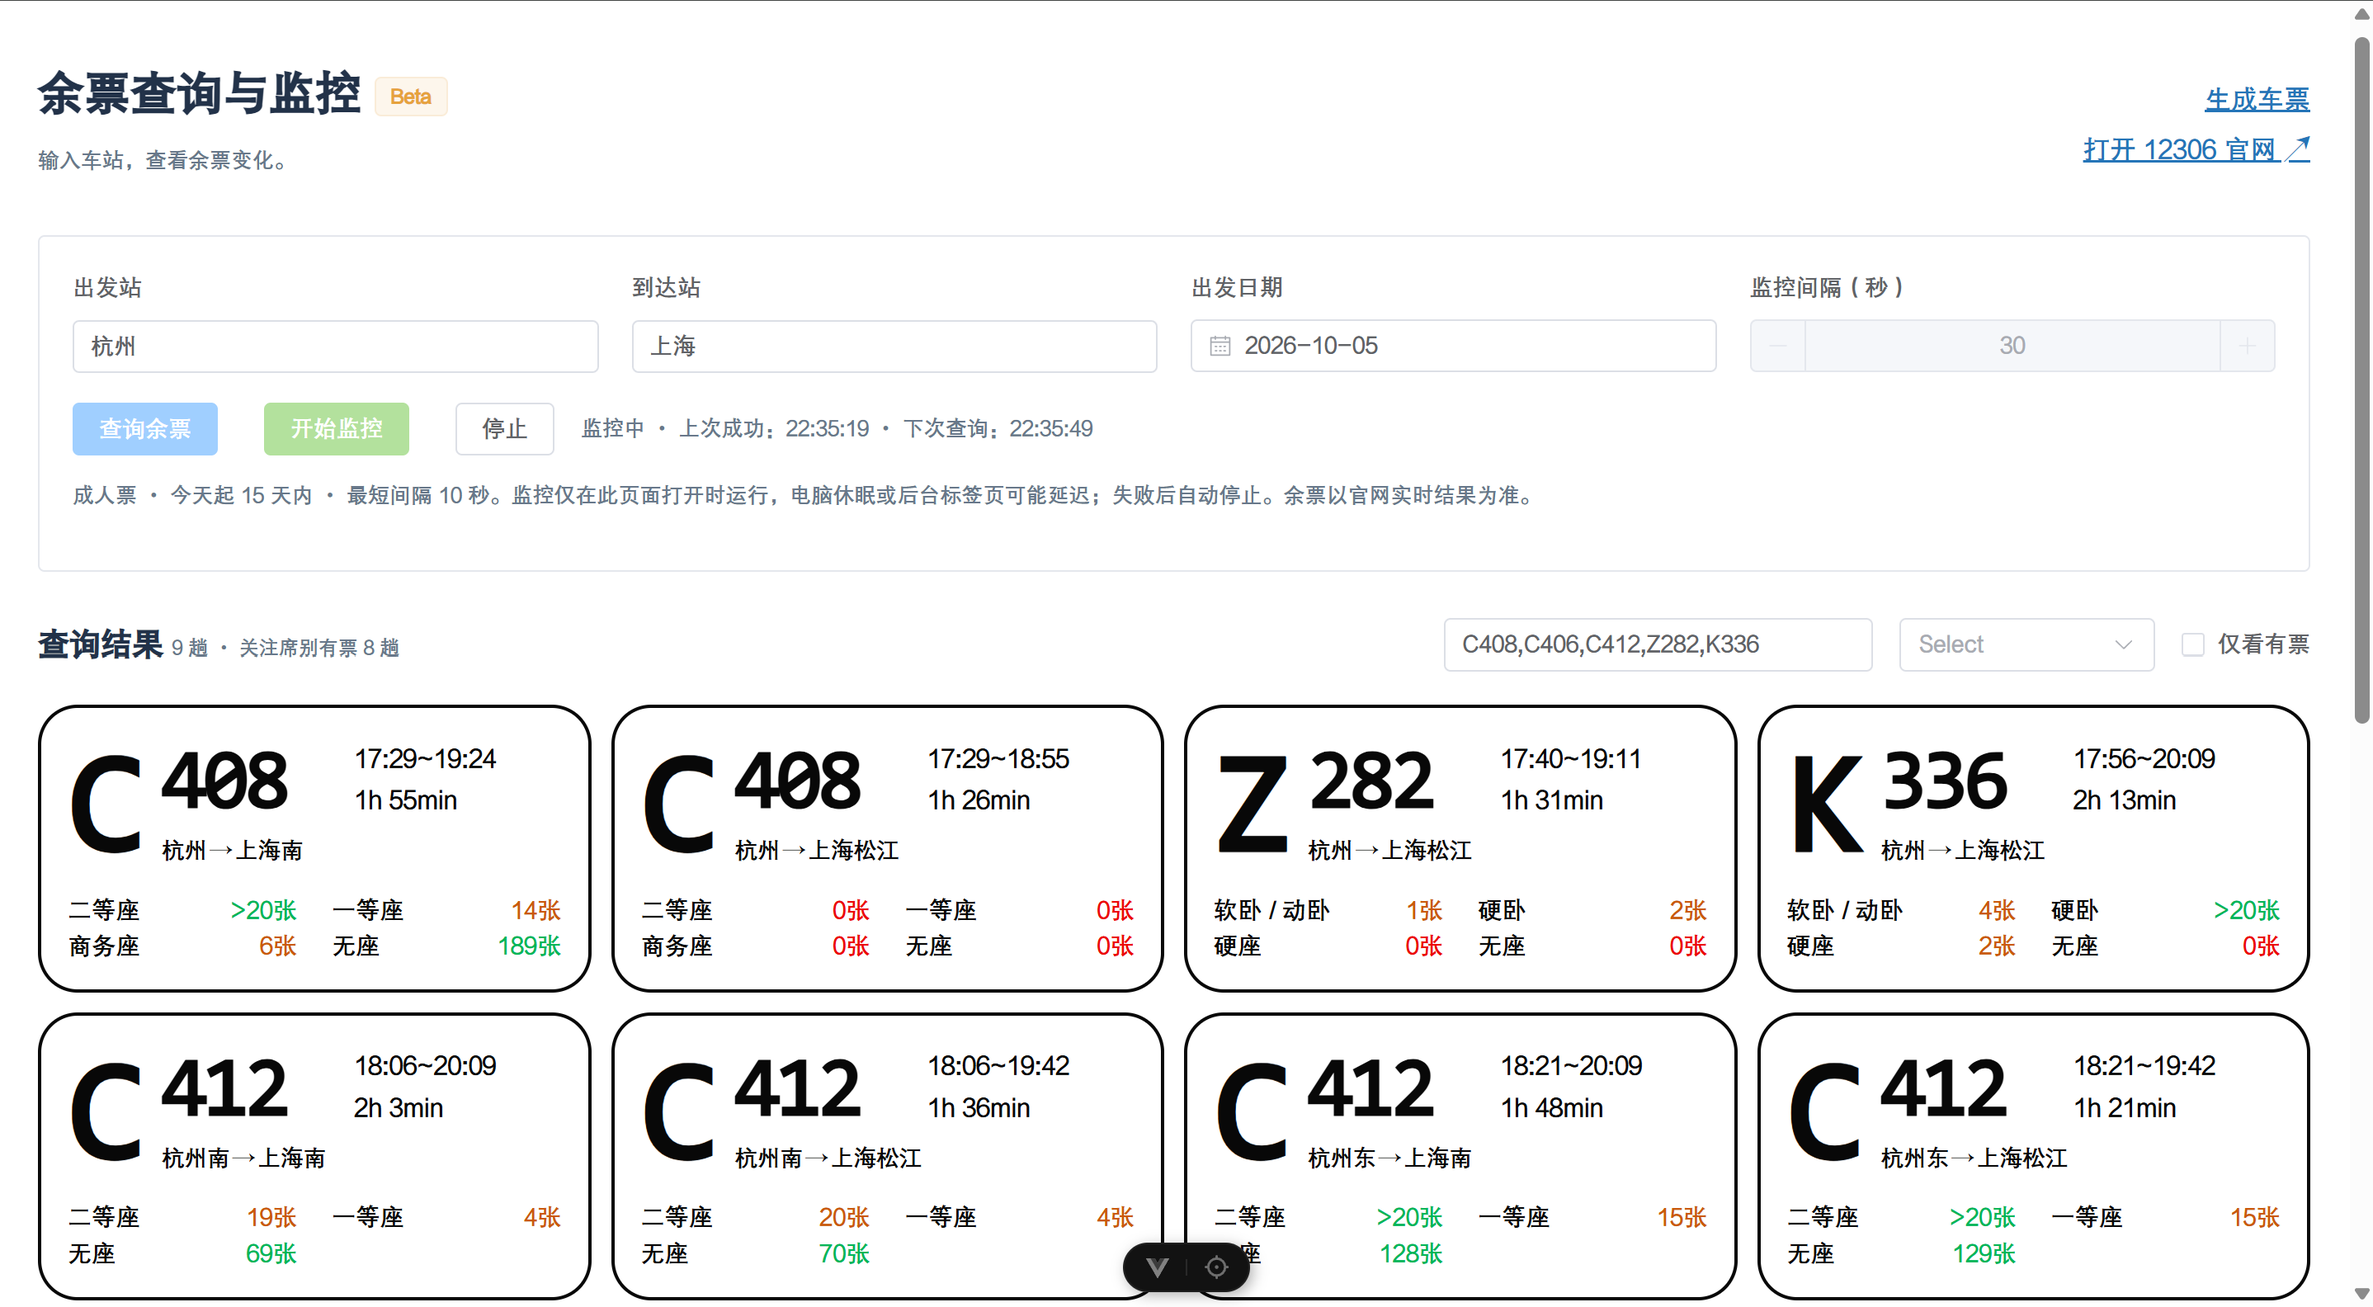
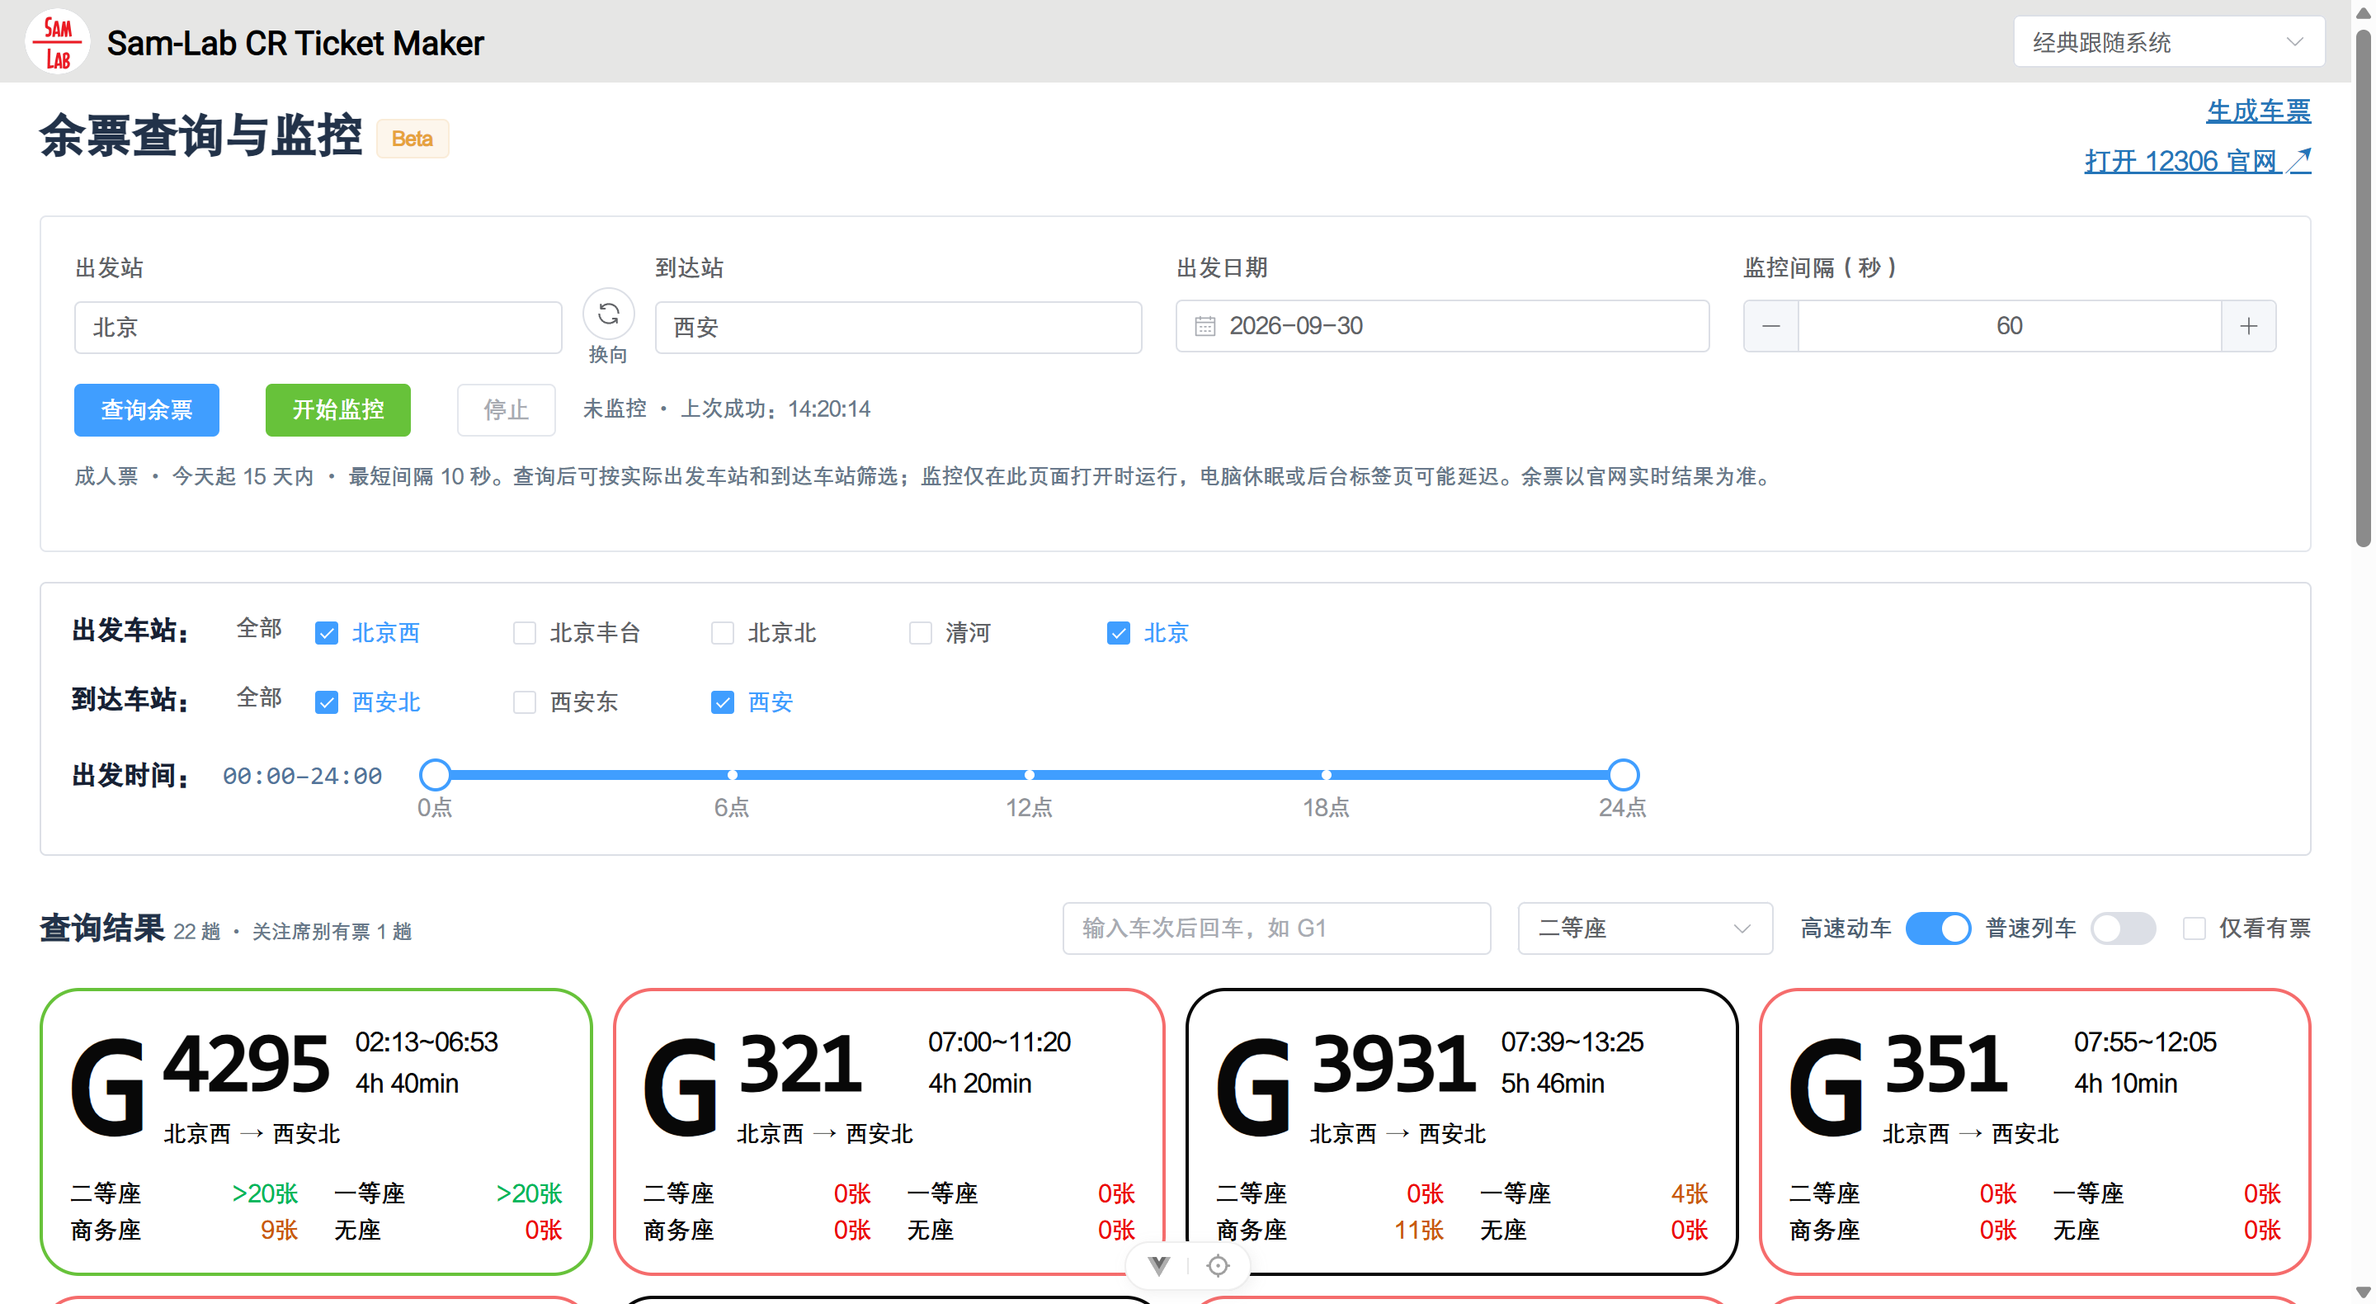
[Release] v260922

diff --git a/src/views/User.vue b/src/views/User.vue
@@ -225,8 +225,8 @@ watch(resolvedTheme, () => {
 }, { flush: 'post' });
 import * as XLSX from "xlsx";
 import api from "@/api.js";
-import { drawCaptcha, generateCaptcha } from "@/utils/captcha.js";
-import stationNamesData from "@/station_name.js";
+import { refreshCaptchaImage } from "@/utils/captcha.js";
+import { parseStations } from "@/utils/stations.js";
 import stationCoordinates, { loadChinaMap } from "@/utils/stationCoordinates.js";
 import { buildTicketPayload } from "@/utils/ticketShared.js";
 import { useUserStore } from "@/stores/user.js";
@@ -365,23 +365,6 @@ async function removeAvatar() {
 }
 
 // 解析站点数据
-const parseStations = () => {
-  return stationNamesData
-    .split('@')
-    .filter(Boolean)
-    .map((item) => {
-      const arr = item.split('|')
-      return {
-        code: arr[0],
-        name: arr[1],
-        telecode: arr[2],
-        en: arr[3],
-        abbr: arr[4],
-        city: arr[7],
-      }
-    })
-}
-
 const stations = parseStations()
 
 // 构建站点名称到城市名的映射
@@ -1317,17 +1300,11 @@ function openDeleteDialog() {
 }
 
 function refreshCaptcha() {
-  currentCaptcha = generateCaptcha();
-  if (captchaImage.value) {
-    captchaImage.value.src = drawCaptcha(currentCaptcha);
-  }
+  currentCaptcha = refreshCaptchaImage(captchaImage.value);
 }
 
 function refreshDeleteCaptcha() {
-  deleteCurrentCaptcha = generateCaptcha();
-  if (deleteCaptchaImage.value) {
-    deleteCaptchaImage.value.src = drawCaptcha(deleteCurrentCaptcha);
-  }
+  deleteCurrentCaptcha = refreshCaptchaImage(deleteCaptchaImage.value);
 }
 
 async function saveProfile() {

diff --git a/src/components/LeftTicketCard.vue b/src/components/LeftTicketCard.vue
@@ -1,5 +1,6 @@
 <script setup>
 import { computed } from 'vue'
+import { hasAvailableSeat as hasTicket, hasPlentyOfSeats as hasPlenty, isKnownSeat } from '@/utils/seatAvailability.js'
 
 const props = defineProps({
   train: {
@@ -22,23 +23,15 @@ const trainParts = computed(() => {
 const seats = computed(() =>
   props.columns.filter(([key]) => {
     const value = props.train.seats[key]
-    return value !== undefined && value !== null && value !== '' && value !== '--'
+    return isKnownSeat(value)
   })
 )
-
-const hasTicket = (value) =>
-  value === '有' ||
-  value === '>20' ||
-  (/^\d+$/.test(value) && Number(value) > 0)
-
-const hasPlenty = (value) =>
-  value === '有' || value === '>20' || Number(value) > 20
 
 const borderClass = computed(() => {
   const knownSeats = props.columns
     .map(([key]) => [key, props.train.seats[key]])
     .filter(([, value]) =>
-      value !== undefined && value !== null && value !== '' && value !== '--'
+      isKnownSeat(value)
     )
   const availableSeats = knownSeats.filter(([, value]) => hasTicket(value))
 
@@ -64,7 +57,7 @@ function countText(value) {
 }
 
 function countClass(value) {
-  if (value === '有' || value === '>20' || Number(value) > 20) return 'plenty'
+  if (hasPlenty(value)) return 'plenty'
   if (/^\d+$/.test(value) && Number(value) > 0) return 'limited'
   return value === '无' || value === '0' ? 'sold-out' : 'unknown'
 }

diff --git a/src/views/Register.vue b/src/views/Register.vue
@@ -53,6 +53,7 @@ import { useRouter } from "vue-router";
 import {onMounted, ref} from "vue";
 import { ElMessage } from 'element-plus';
 import api from "@/api.js";
+import { refreshCaptchaImage } from "@/utils/captcha.js";
 
 const router = useRouter();
 const goToHistory = () => {
@@ -71,35 +72,8 @@ let currentCaptcha = "";
 // 通过 ref 获取 captchaImage 元素
 const captchaImage = ref(null);
 
-// 生成并显示验证码
-function generateCaptcha() {
-  const chars = "ABCDEFGHJKLMNPQRSTUVWXYZ23456789";
-  return Array.from({ length: 5 }, () =>
-      chars.charAt(Math.floor(Math.random() * chars.length))
-  ).join("");
-}
-
-function drawCaptcha(code) {
-  const canvas = document.createElement("canvas");
-  canvas.width = 100;
-  canvas.height = 40;
-  const ctx = canvas.getContext("2d");
-  ctx.fillStyle = "#f2f2f2";
-  ctx.fillRect(0, 0, canvas.width, canvas.height);
-  ctx.font = "20px Arial";
-  ctx.fillStyle = "#333";
-  ctx.textBaseline = "middle";
-  ctx.textAlign = "center";
-  ctx.fillText(code, canvas.width / 2, canvas.height / 2);
-  return canvas.toDataURL("image/png");
-}
-
 function refreshCaptcha() {
-  currentCaptcha = generateCaptcha();
-  // 通过 ref 更新 src 属性
-  if (captchaImage.value) {
-    captchaImage.value.src = drawCaptcha(currentCaptcha);
-  }
+  currentCaptcha = refreshCaptchaImage(captchaImage.value);
 }
 
 function handleSubmit(e) {

diff --git a/src/views/MainView.vue b/src/views/MainView.vue
@@ -115,7 +115,7 @@
           <el-input v-model="ticket.sellPlace" placeholder="XX站"></el-input>
         </el-form-item>
 
-        <el-form-item label="检票/候车位置">
+        <el-form-item label="检票/候车">
           <el-input v-model="ticket.gate" placeholder="检票：1A / 候车：一候"></el-input>
         </el-form-item>
 
@@ -145,7 +145,7 @@
         </el-form-item>
 
       </el-form>
-      <h3 style="font-family: Consolas, 'Courier New', monospace">Version 260918</h3>
+      <h3 style="font-family: Consolas, 'Courier New', monospace">Version 260922</h3>
       <h3 style="font-family: Consolas, 'Courier New', monospace">Station Version 10116</h3>
 
       <el-space>
@@ -336,8 +336,8 @@ watch(() => ticket.number, (newVal) => {
 
 const note = () => {
   ElNotification({
-    title: '更新车站列表至10116',
-    message: '更新车站列表（西康高铁），加固API接口，修复后端安全问题，新增头像编辑。',
+    title: '新增页面主题与车票监控功能🎉🎉🎉',
+    message: '新增Element Plus和高对比度两套配色方案；新增车票余票监控功能，如果需要系统提醒请打开权限。',
     type: 'info',
     position: 'bottom-right'
   })

diff --git a/src/views/Monitor.vue b/src/views/Monitor.vue
@@ -4,6 +4,7 @@ import { computed, onBeforeUnmount, ref, watch } from 'vue'
 import { ElMessage } from 'element-plus'
 import { Refresh } from '@element-plus/icons-vue'
 import api from '@/api.js'
+import { hasAvailableSeat as available } from '@/utils/seatAvailability.js'
 import LeftTicketCard from '@/components/LeftTicketCard.vue'
 import { queryStationSearch, stations } from '@/composables/useTicketShared.js'
 
@@ -62,11 +63,6 @@ const departureStations = computed(() =>
 const arrivalStations = computed(() =>
   Array.from(new Set(rows.value.map((row) => row.to))).filter(Boolean)
 )
-
-const available = (value) =>
-  value === '有' ||
-  value === '>20' ||
-  (/^\d+$/.test(value) && Number(value) > 0)
 
 function isOrdinaryTrain(trainNo) {
   const normalized = String(trainNo || '').trim().toUpperCase()

diff --git a/src/views/Login.vue b/src/views/Login.vue
@@ -52,7 +52,7 @@ import { ElMessage } from "element-plus";
 import api from "@/api.js";
 import {useUserStore} from "@/stores/user.js";
 import {User} from "@element-plus/icons-vue";
-import { drawCaptcha, generateCaptcha } from "@/utils/captcha.js";
+import { refreshCaptchaImage } from "@/utils/captcha.js";
 
 const router = useRouter();
 const route = useRoute();
@@ -75,10 +75,7 @@ const loginValue = computed({
 const captchaImage = ref(null);
 
 function refreshCaptcha() {
-  currentCaptcha = generateCaptcha();
-  if (captchaImage.value) {
-    captchaImage.value.src = drawCaptcha(currentCaptcha);
-  }
+  currentCaptcha = refreshCaptchaImage(captchaImage.value);
 }
 
 function handleSubmit() {

diff --git a/src/composables/useTicketShared.js b/src/composables/useTicketShared.js
@@ -1,22 +1,9 @@
 import { computed, ref, watch } from 'vue'
 import { ElMessage } from 'element-plus'
-import stationData from '@/station_name.js'
+import { parseStations } from '@/utils/stations.js'
 import { disableAirSeats } from '@/utils/ticketShared.js'
 
-export const stations = stationData
-  .split('@')
-  .filter(Boolean)
-  .map((item) => {
-    const arr = item.split('|')
-    return {
-      code: arr[0],
-      name: arr[1],
-      telecode: arr[2],
-      en: arr[3],
-      abbr: arr[4],
-      city: arr[7],
-    }
-  })
+export const stations = parseStations()
 
 function normalizeStationName(name, shouldNormalize = false) {
   if (!name) return ''

diff --git a/src/utils/stations.js b/src/utils/stations.js
@@ -1,0 +1,18 @@
+import stationData from '../station_name.js'
+
+export function parseStations() {
+  return stationData
+    .split('@')
+    .filter(Boolean)
+    .map((item) => {
+      const arr = item.split('|')
+      return {
+        code: arr[0],
+        name: arr[1],
+        telecode: arr[2],
+        en: arr[3],
+        abbr: arr[4],
+        city: arr[7],
+      }
+    })
+}

diff --git a/src/utils/seatAvailability.js b/src/utils/seatAvailability.js
@@ -1,0 +1,10 @@
+export const hasAvailableSeat = (value) =>
+  value === '有' ||
+  value === '>20' ||
+  (/^\d+$/.test(value) && Number(value) > 0)
+
+export const hasPlentyOfSeats = (value) =>
+  value === '有' || value === '>20' || Number(value) > 20
+
+export const isKnownSeat = (value) =>
+  value !== undefined && value !== null && value !== '' && value !== '--'

diff --git a/src/utils/captcha.js b/src/utils/captcha.js
@@ -19,3 +19,11 @@ export function drawCaptcha(code) {
   ctx.fillText(code, canvas.width / 2, canvas.height / 2);
   return canvas.toDataURL("image/png");
 }
+
+export function refreshCaptchaImage(image) {
+  const code = generateCaptcha();
+  if (image) {
+    image.src = drawCaptcha(code);
+  }
+  return code;
+}

diff --git a/README.md b/README.md
@@ -19,8 +19,7 @@ https://sam28403.github.io
 ![Screenshot](Screenshot3.png)
 ![Screenshot](Screenshot4.png)
 ![Screenshot](Screenshot5.png)
-![Screenshot](Screenshot8.png)
-
+![Screenshot](Screenshot9.png)
 ![Screenshot](Screenshot6.png)
 ![Screenshot](Screenshot7.png)
 
@@ -29,6 +28,17 @@ https://sam28403.github.io
 - 可离线部署运行；
 - 不记名车票，无需担心数据泄露；
 - 多种背景选择。
+
+## 切换页面主题
+
+在页面顶部右侧的“外观主题”下拉框中切换配色，无需登录：
+
+- 经典跟随系统、经典亮色、经典暗色；
+- 高对比度跟随系统、高对比度亮色、高对比度暗色。
+
+默认使用“经典跟随系统”。选择“跟随系统”时，页面会随操作系统的亮色／暗色设置自动变化；选择固定亮色或暗色时则保持该配色。设置保存在当前浏览器的本地存储中，刷新后保留，并同步到同源的其他已打开页面；本地存储不可用时仍可在当前页面切换。
+
+这里调整的是页面外观，车票背景仍在车票表单的“背景”选项中单独选择。
 
 ## 车票生成使用说明
 
@@ -86,13 +96,16 @@ https://sam28403.github.io
 
 ## 余票监控使用说明
 
-在本地或自行部署的完整服务中，从首页右上角点击“余票监控”进入 `#/monitor`，无需登录。监控页右上角“生成车票”返回首页，下方链接可打开 12306 官网。GitHub Pages 演示版会冻结该入口，原因见下方部署说明。
+在本地或自行部署的完整服务中，从首页右上角点击“余票监控”进入 `#/monitor`，无需登录。监控页标题右侧“生成车票”返回首页，下方链接可打开 12306 官网。GitHub Pages 演示版会冻结该入口，原因见下方部署说明。
 
 ### 查询与筛选
 
 1. 输入出发站和到达站，支持汉字、拼音、首字母搜索，站名列表复用 `src/composables/useTicketShared.js`。
 2. 选择今天起 15 天内的出发日期，点击“查询余票”。当前查询成人票。
-3. 默认关注全部席别，可选择指定席别，或勾选“仅看有票”。车次按完整车次号匹配，多车次可用逗号或空格分隔，例如 `G1,G3`。
+3. 可点击“换向”交换出发站与到达站。查询后可多选实际出发车站、到达车站，点击对应“全部”取消该项车站筛选。
+4. 出发时间按整点范围筛选，默认 `00:00–24:00`，包含起始时刻、不包含结束时刻。
+5. 默认关注全部席别，可选择指定席别，或勾选“仅看有票”。有票统计和提醒还要求该车次处于可预订状态。车次按完整车次号匹配，不区分大小写；输入一个车次后按回车添加标签，多车次需逐个添加，例如先输入 `G1` 回车，再输入 `G3` 回车。
+6. “高速动车”和“普速列车”开关互斥，均关闭时显示全部。当前分类规则将 Z/T/K/L 开头及纯数字车次、D1–D300、D701–D800、C1–C999、C4001–C4999 归为普速，其余归入高速动车筛选。
 
 结果以卡片展示，手机为两列，大屏为四列；卡片只显示官网提供的席别，售罄席别仍保留。车次使用 `public/consola.ttf`，其他文字使用 `public/FZCDXK.TTF`。
 
@@ -100,11 +113,17 @@ https://sam28403.github.io
 - 有座明细中的截断值 `21` 显示为 `>20张`，不能据此认定实际只剩 21 张；无座保留可解析的数量。
 - 明细缺失或无法可靠解析时保留 `>20张`，不推算库存。查询结果是当次快照，以 12306 实时结果为准。
 
+卡片边框另有含义：已展示席别全部无票为红色，仅无座有票为橙色，有座席别中存在大于 20 张的为绿色，其余使用默认边框。
+
 ### 定时监控
 
-点击“开始监控”会立即查询，随后按间隔继续查询。默认间隔 60 秒，可设置为 10–3600 秒；每次请求结束后才安排下一次查询，避免请求重叠。点击“停止”取消监控及正在进行的页面请求。
+点击“开始监控”会先尝试申请浏览器通知权限，随后立即查询，再按间隔继续查询。默认间隔 60 秒，可设置为 10–3600 秒，监控中不能调整间隔；每次请求结束后才安排下一次查询，避免请求重叠。点击“停止”取消监控及正在进行的页面请求。
 
-首次发现关注席别有票，或有票数量发生变化时，页面弹出提醒，并保留最近 30 条提醒。监控只在当前页面打开时运行；离开页面或修改出发站、到达站、日期会停止监控。电脑休眠、后台标签页可能延迟查询，不提供后台常驻或手机推送。
+首次发现符合筛选条件的车次在关注席别有票，或其余票数据变化且仍有票时，页面弹出提醒，并保留最近 30 条提醒；变为无票时不发送有票提醒。允许通知后还会发送浏览器系统通知，点击通知可聚焦页面；不支持通知、未授权或发送失败时，仍保留页面内提醒。
+
+提醒关注所选车站、出发时间、车次、车种与席别。修改这些筛选条件会清空提醒记录及上次比较状态，下次监控查询会重新判断有票情况；“仅看有票”只控制结果显示。修改出发站、到达站、日期（包括换向）会停止监控并清空查询结果和提醒。
+
+监控只在当前页面打开时运行，离开页面会停止。电脑休眠、后台标签页可能延迟查询；浏览器通知不代表后台常驻监控，也不提供服务端手机推送。
 
 查询失败会自动停止，保留上次成功结果并标明可能过期；排除问题后需手动重试。最短间隔不代表不会触发官网限流，遇到限流应降低查询频率。
 
